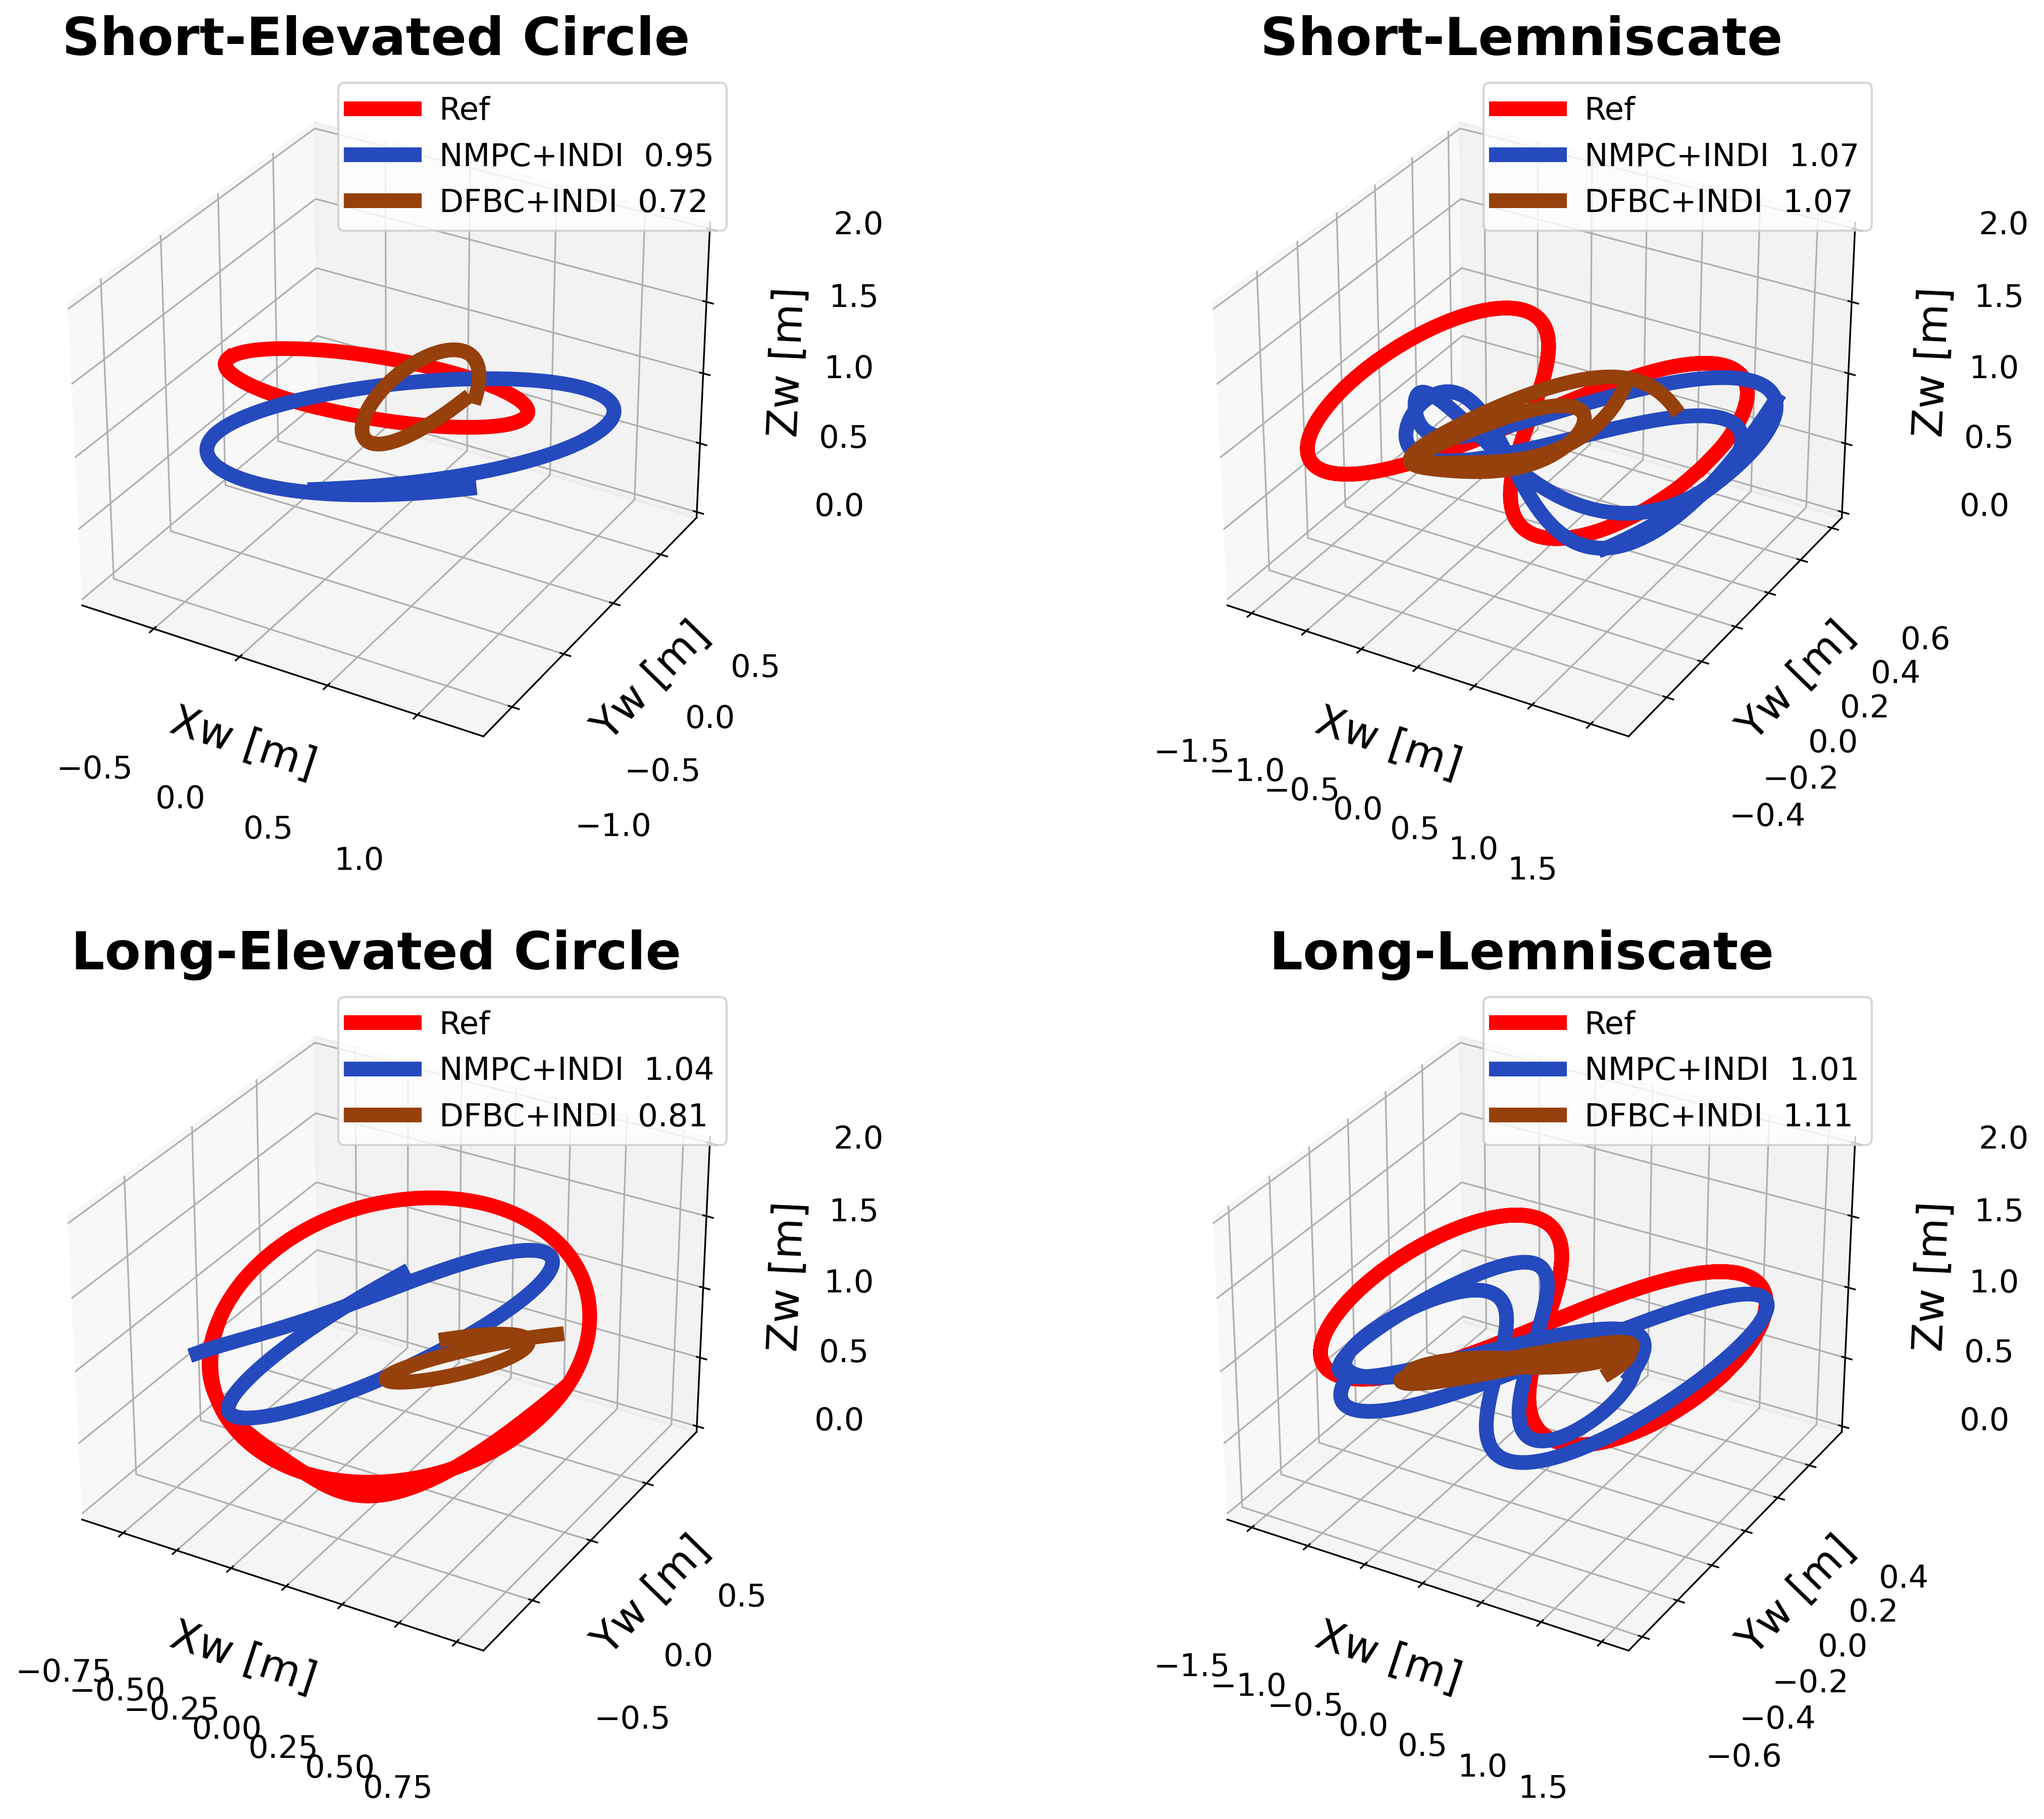
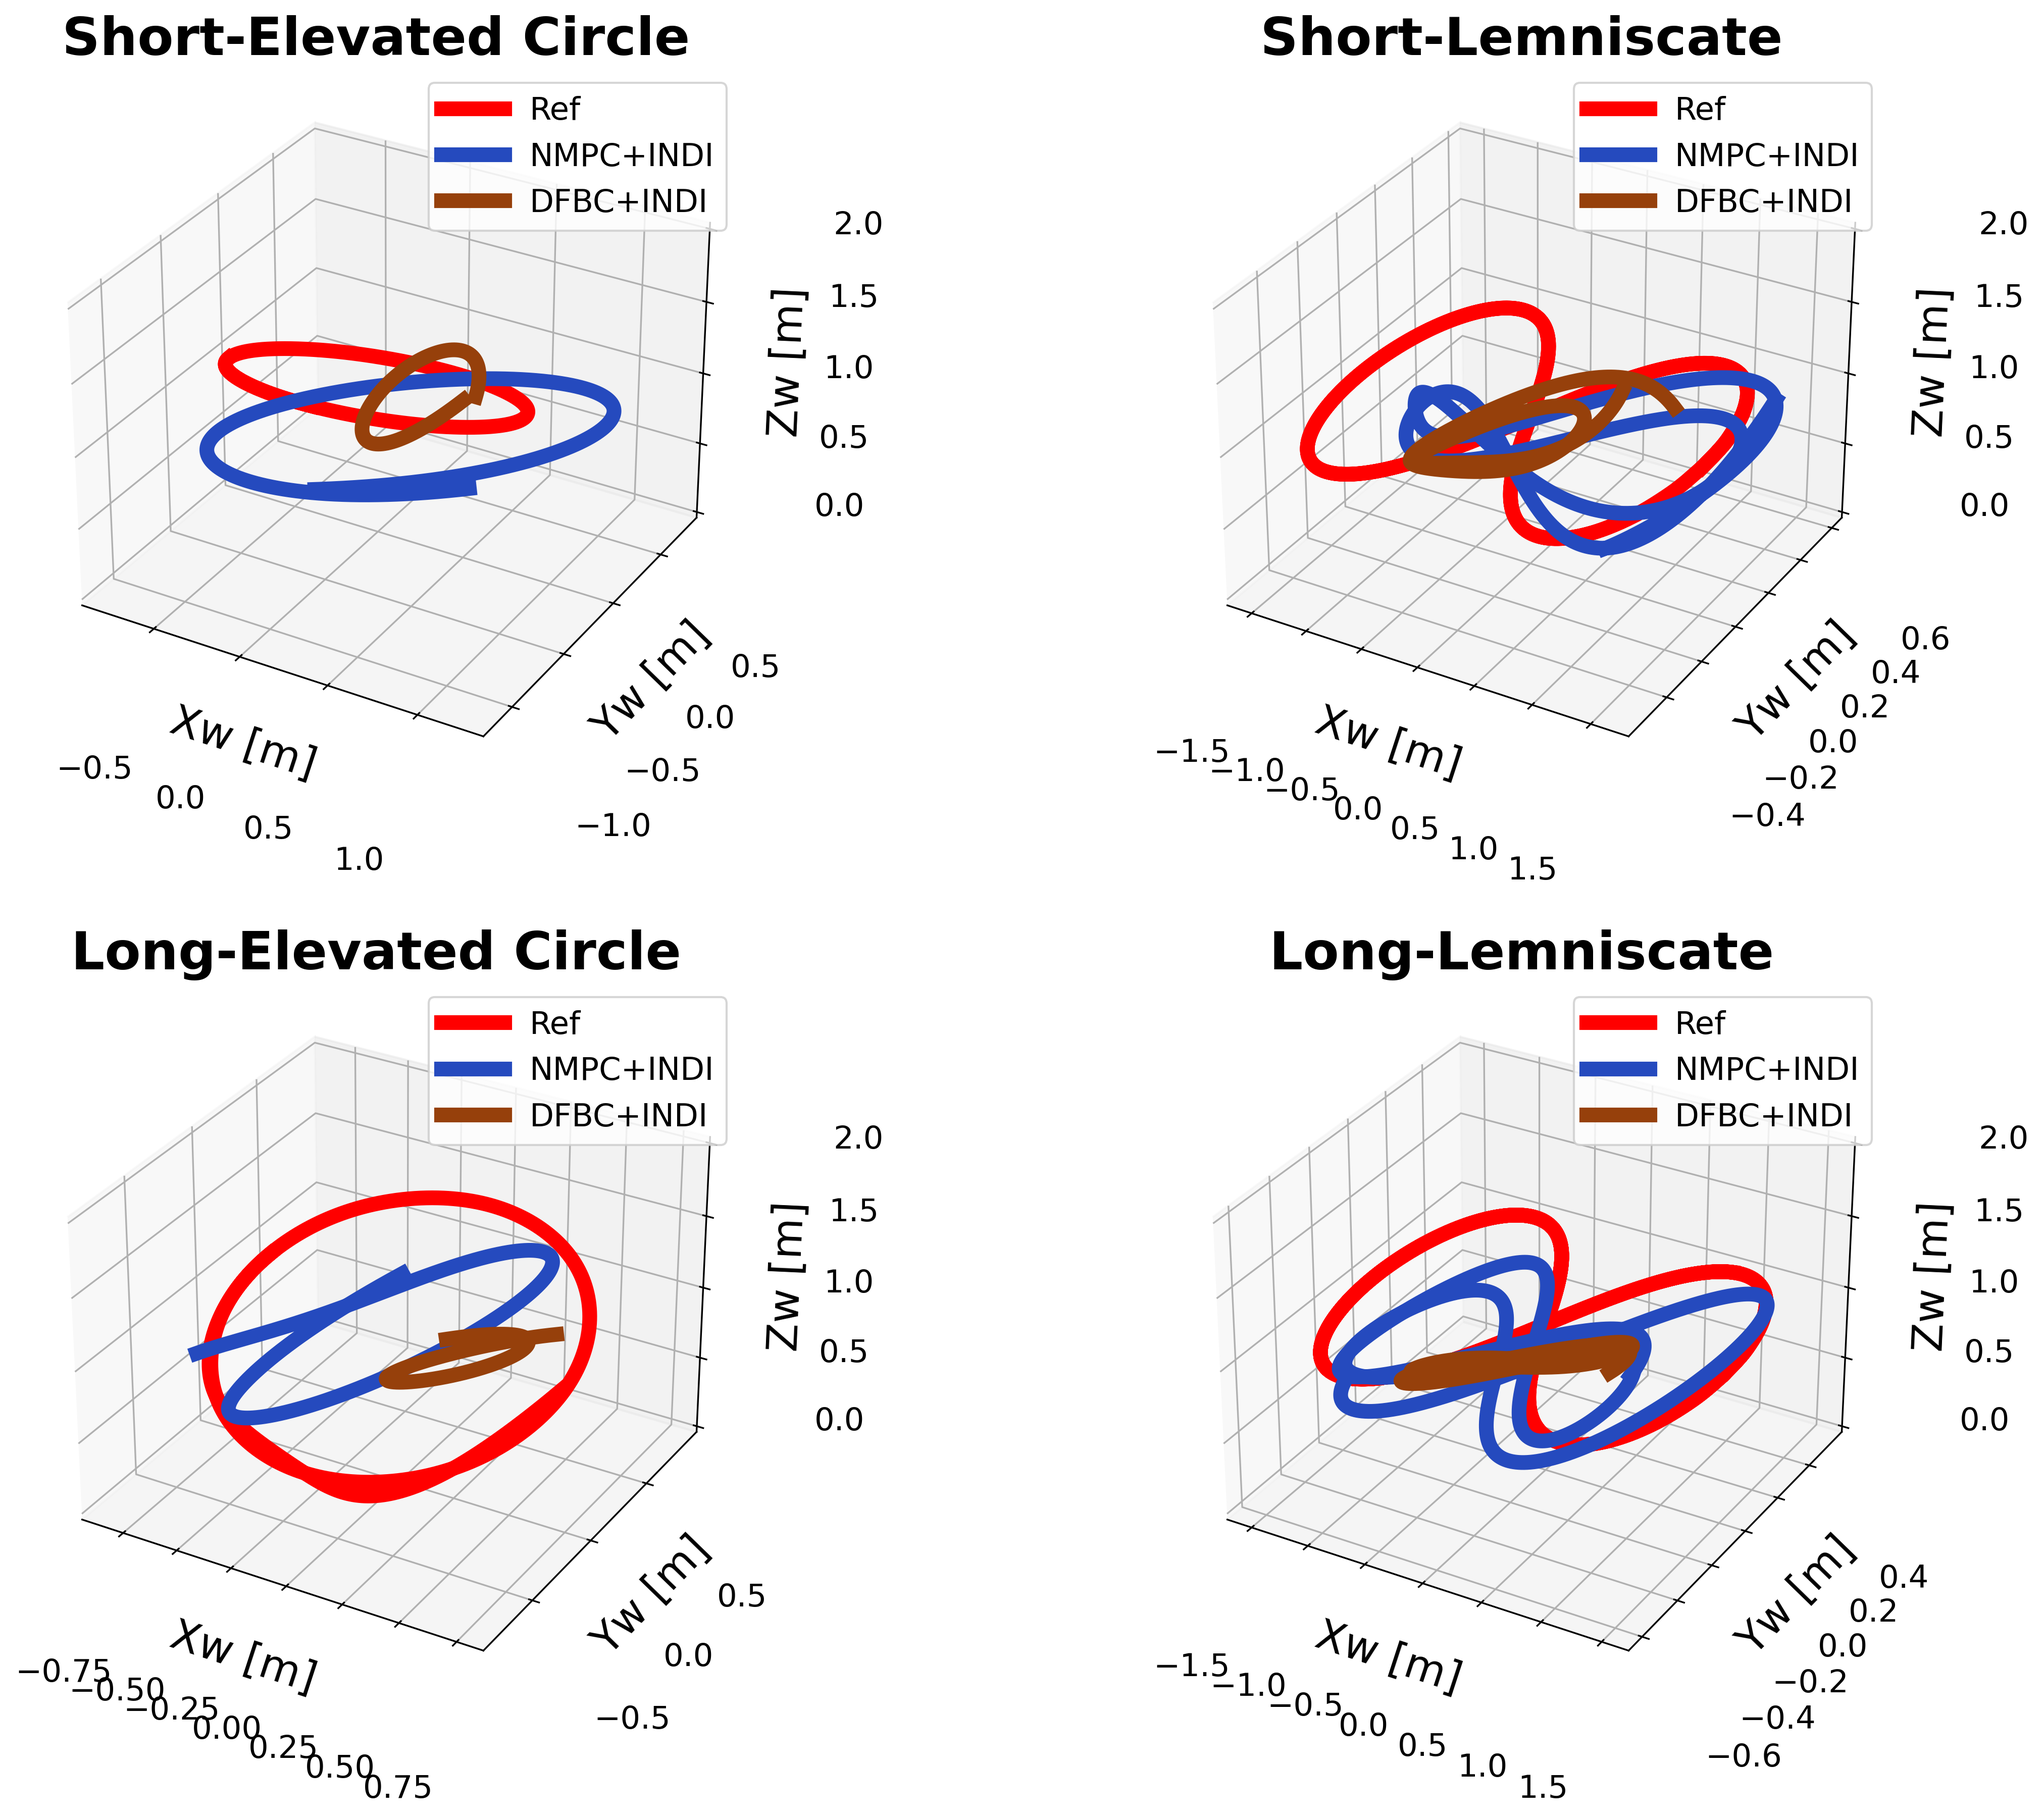
adjusted to true rmse

diff --git a/OCP_MPC/paper_plots/lem_ele_reduced_3D_graphs_plotter.py b/OCP_MPC/paper_plots/lem_ele_reduced_3D_graphs_plotter.py
@@ -81,36 +81,39 @@ for i in range(rows):
             x = wing[m][n][1] 
             y = wing[m][n][2] 
             z = wing[m][n][3]
+            # rx = wing[m][n][4] 
+            # ry = wing[m][n][5] 
+            # rz = wing[m][n][6] 
             #final_rmse = wing[m][n][18]
 
-            xe_sq = []
-            x_p = 0.0
-            ye_sq = []   
-            y_p = 0.0
-            ze_sq = []
-            z_p = 0.0
+            # xe_sq = []
+            # x_p = 0.0
+            # ye_sq = []   
+            # y_p = 0.0
+            # ze_sq = []
+            # z_p = 0.0
 
-            for k in range(len(x)):
-                if rx[k] != x_p:
-                    x_error_squared = (rx[k] - x[k]) ** 2
-                    xe_sq.append(x_error_squared)
-                    x_p = rx[k]
-                if ry[k] != y_p:
-                    y_error_squared = (ry[k] - y[k]) ** 2
-                    ye_sq.append(y_error_squared)    
-                    y_p = ry[k]
-                if rz[k] != z_p:
-                    z_error_squared = (rz[k] - z[k]) ** 2
-                    ze_sq.append(z_error_squared)
-                    z_p = rz[k]
+            # for k in range(len(x)):
+            #     #if rx[k] != x_p:
+            #     x_error_squared = (rx[k] - x[k]) ** 2
+            #     xe_sq.append(x_error_squared)
+            #     #    x_p = rx[k]
+            #     #if ry[k] != y_p:
+            #     y_error_squared = (ry[k] - y[k]) ** 2
+            #     ye_sq.append(y_error_squared)    
+            #     #y_p = ry[k]
+            #     #if rz[k] != z_p:
+            #     z_error_squared = (rz[k] - z[k]) ** 2
+            #     ze_sq.append(z_error_squared)
+            #     #z_p = rz[k]
                 
-            final_rmse_x = math.sqrt(sum(xe_sq)/(len(xe_sq)))
-            final_rmse_y = math.sqrt(sum(ye_sq)/(len(ye_sq)))
-            final_rmse_z = math.sqrt(sum(ze_sq)/(len(ze_sq)))
-            rmse_xyz_list = [final_rmse_y,final_rmse_x,final_rmse_z]
-            final_rmse = la.norm(rmse_xyz_list, 2) 
+            # final_rmse_x = math.sqrt(sum(xe_sq)/(len(x)))
+            # final_rmse_y = math.sqrt(sum(ye_sq)/(len(x)))
+            # final_rmse_z = math.sqrt(sum(ze_sq)/(len(x)))
+            # rmse_xyz_list = [final_rmse_y,final_rmse_x,final_rmse_z]
+            # final_rmse = la.norm(rmse_xyz_list, 2) 
 
-            graphs[i][a].plot3D(x,y,z,label=method_label+"  "+f'{final_rmse:.2f}',linewidth=7.0,color=colors[n],linestyle=style) #label=['NMPC']      
+            graphs[i][a].plot3D(x,y,z,label=method_label,linewidth=7.0,color=colors[n],linestyle=style) #label=['NMPC']      
 
         graphs[i][a].set_zlim(0,2)
         graphs[i][a].set_xlabel('Xw [m]', fontsize=20)

diff --git a/OCP_MPC/paper_plots/reduced_overall_table_gen.py b/OCP_MPC/paper_plots/reduced_overall_table_gen.py
@@ -431,7 +431,8 @@ if selected_wing == foam_wing:
         for j in range(paper_size[1]):
             paper_mean[i][j] = statistics.mean(xyz_hold_mean[i][j])
             paper_stddev[i][j] = statistics.stdev(xyz_hold_stddev[i][j])
-            paper_rmse[i][j] = statistics.mean(xyz_rmse[i][j]) 
+            #paper_rmse[i][j] = statistics.mean(xyz_rmse[i][j]) 
+            paper_rmse[i][j] = la.norm(xyz_rmse[i][j], 2) # euclidean RMSE 
 
     file = open(title, "w+")
     file.write(selected_wing+'\n')
@@ -500,7 +501,8 @@ else:
         for j in range(paper_size[1]):
             paper_mean[i][j] = statistics.mean(xyz_hold_mean[i][j])
             paper_stddev[i][j] = statistics.stdev(xyz_hold_stddev[i][j])
-            paper_rmse[i][j] = statistics.mean(xyz_rmse[i][j])        
+            #paper_rmse[i][j] = statistics.mean(xyz_rmse[i][j]) 
+            paper_rmse[i][j] = la.norm(xyz_rmse[i][j], 2) # euclidean RMSE        
 
     file = open(title, "w+")
     file.write(selected_wing+'\n')

diff --git a/OCP_MPC/paper_plots/table_gen.py b/OCP_MPC/paper_plots/table_gen.py
@@ -431,7 +431,8 @@ if selected_wing == foam_wing:
         for j in range(paper_size[1]):
             paper_mean[i][j] = statistics.mean(xyz_hold_mean[i][j])
             paper_stddev[i][j] = statistics.stdev(xyz_hold_stddev[i][j])
-            paper_rmse[i][j] = statistics.mean(xyz_rmse[i][j]) 
+            #paper_rmse[i][j] = statistics.mean(xyz_rmse[i][j]) 
+            paper_rmse[i][j] = la.norm(xyz_rmse[i][j], 2) # euclidean RMSE 
 
     file = open(title, "w+")
     file.write(selected_wing+'\n')
@@ -500,7 +501,8 @@ else:
         for j in range(paper_size[1]):
             paper_mean[i][j] = statistics.mean(xyz_hold_mean[i][j])
             paper_stddev[i][j] = statistics.stdev(xyz_hold_stddev[i][j])
-            paper_rmse[i][j] = statistics.mean(xyz_rmse[i][j])        
+            #paper_rmse[i][j] = statistics.mean(xyz_rmse[i][j]) 
+            paper_rmse[i][j] = la.norm(xyz_rmse[i][j], 2) # euclidean RMSE       
 
     file = open(title, "w+")
     file.write(selected_wing+'\n')
